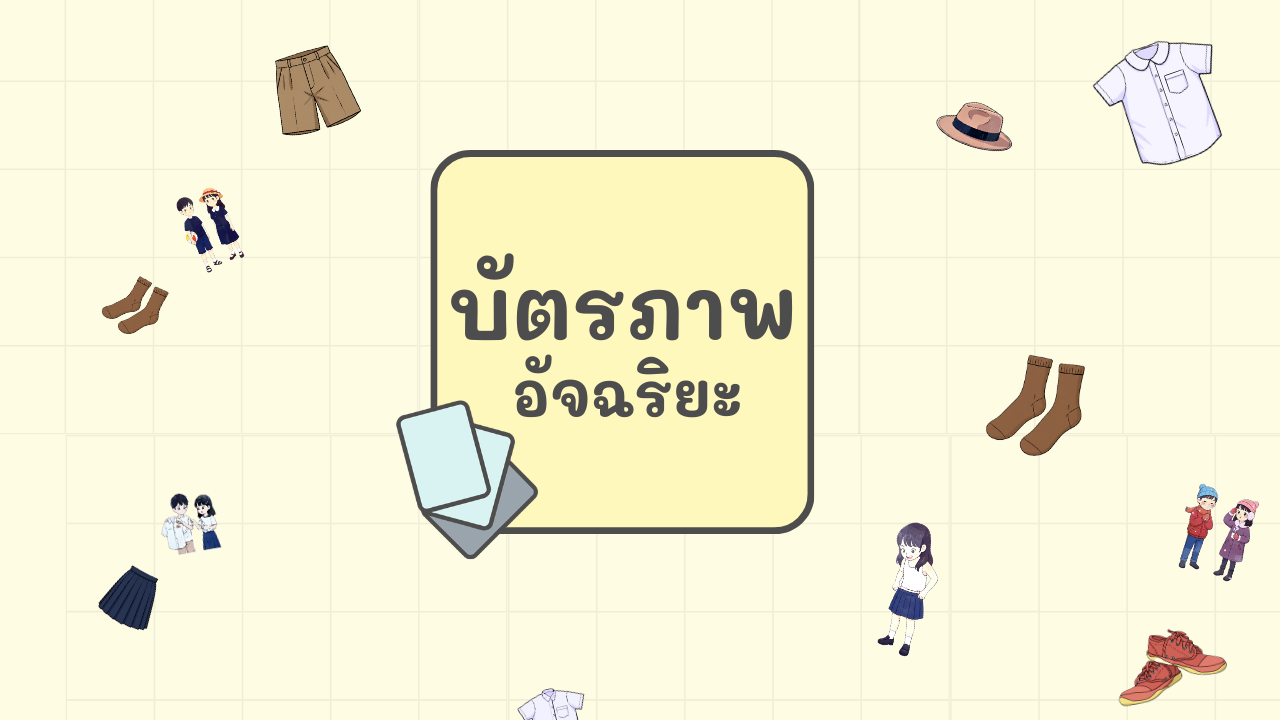
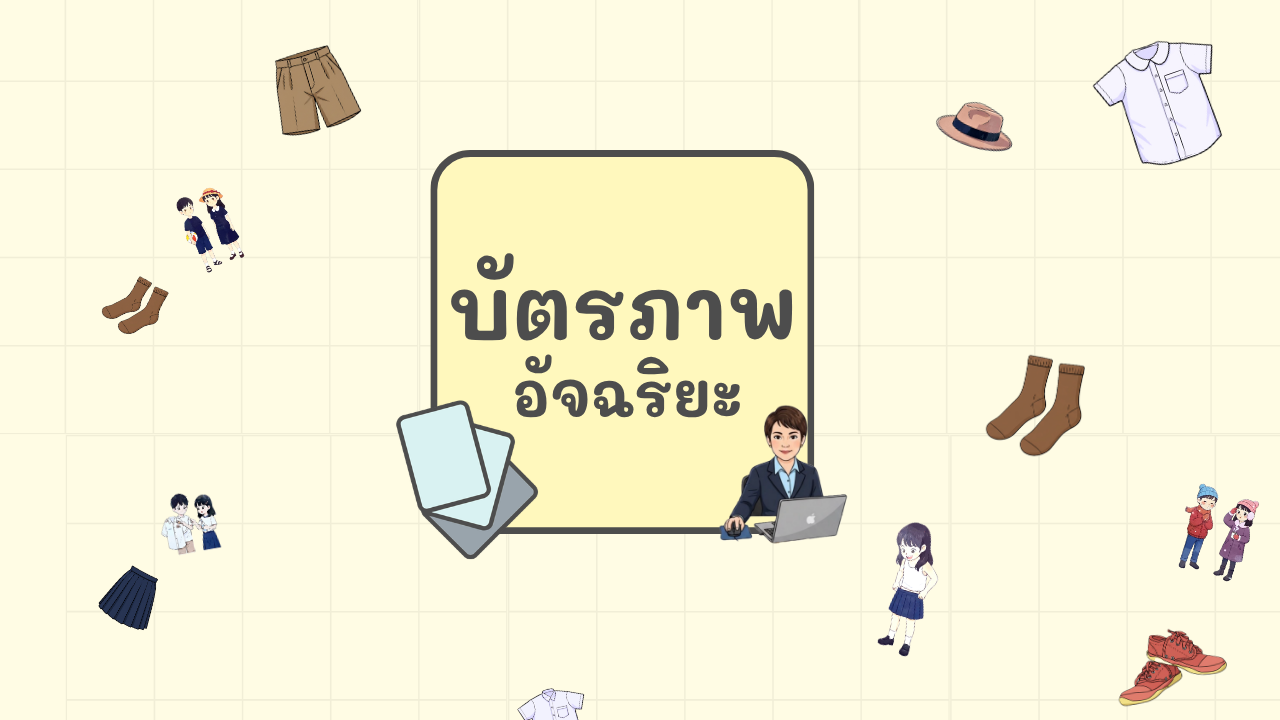
feat: deduct life on speech recognition failure and adjust to 3 chances

Changed region(s): [[0.5625, 0.55, 0.6562, 0.7639], [0.4062, 0.9778, 0.4375, 1.0]]

diff --git a/app/main.py b/app/main.py
@@ -416,7 +416,7 @@ class GameController:
                         time.sleep(1) 
                         self.next_card()
                     else:
-                        if self.mistakes >= 1: # This is the 2nd mistake (0-indexed effectively since we'll trigger)
+                        if self.mistakes >= 2: # This is the 3rd mistake (0, 1, 2)
                             self.trigger_wrong_action(f"หมดโควต้าแล้ว! ข้ามไปคำถัดไปเลยนะ")
                             time.sleep(1.5)
                             self.next_card()
@@ -429,9 +429,29 @@ class GameController:
                 except sr.UnknownValueError:
                     print("THREAD: Could not understand audio")
                     self.feedback_message = "???"
+                    # Deduct life for "???" as requested to speed up the game
+                    if self.mistakes >= 2: # 3rd mistake
+                        self.trigger_wrong_action(f"ฟังไม่ชัด! หมดโควต้าแล้ว ข้ามไปคำถัดไปนะ")
+                        time.sleep(1.5)
+                        self.next_card()
+                    else:
+                        self.trigger_wrong_action(f"ฟังไม่ชัด! โปรดลองอีกครั้ง (???)")
+                        if self.current_state != GameState.GAME_OVER:
+                            self.current_state = GameState.COUNTDOWN_PRE_LISTEN
+                            self.countdown_start_time = time.time()
                 except sr.RequestError as e:
                     print(f"THREAD: Request error; {e}")
-                    self.feedback_message = "ข้อผิดพลาดระบบเครือข่าย"
+                    self.feedback_message = "ข้อผิดพลาดเครือข่าย"
+                    # Network error but we still treat it as a try to prevent infinite wait
+                    if self.mistakes >= 2:
+                        self.trigger_wrong_action("ปัญหาเครือข่าย! ข้ามไปก่อนนะ")
+                        time.sleep(1.5)
+                        self.next_card()
+                    else:
+                        self.trigger_wrong_action("ปัญหาเครือข่าย! ลองใหม่อีกครั้ง")
+                        if self.current_state != GameState.GAME_OVER:
+                            self.current_state = GameState.COUNTDOWN_PRE_LISTEN
+                            self.countdown_start_time = time.time()
 
             except sr.WaitTimeoutError:
                 print("THREAD: Listening timed out")
@@ -1029,7 +1049,7 @@ class GameController:
 
             if self.feedback_message and self.current_state != GameState.GAME_OVER:
                 color = (0, 255, 0) if "ถูกต้อง" in self.feedback_message else (255, 100, 100)
-                msg = f"{self.feedback_message} (พลาดได้อีก {2 - self.mistakes} ครั้ง)" if self.mistakes > 0 else self.feedback_message
+                msg = f"{self.feedback_message} (พลาดได้อีก {3 - self.mistakes} ครั้ง)" if self.mistakes > 0 else self.feedback_message
                 self.draw_text_centered(msg, self.font_medium, color, 100, (0,0,0,200))
 
         # Scale and blit the internal surface onto the actual window